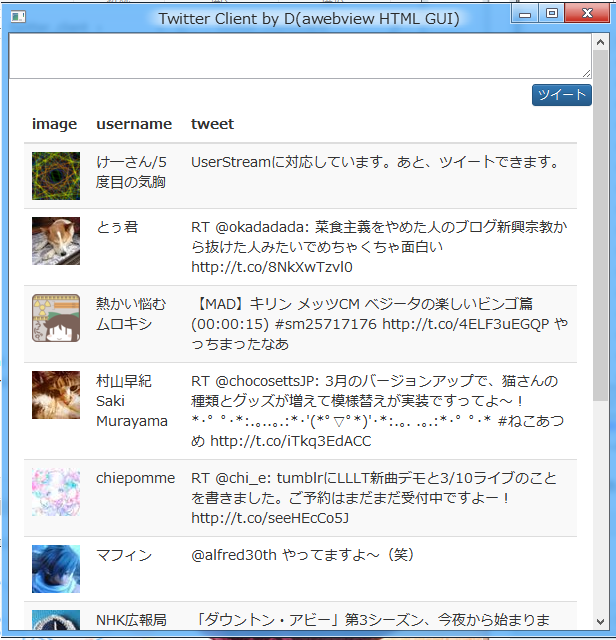
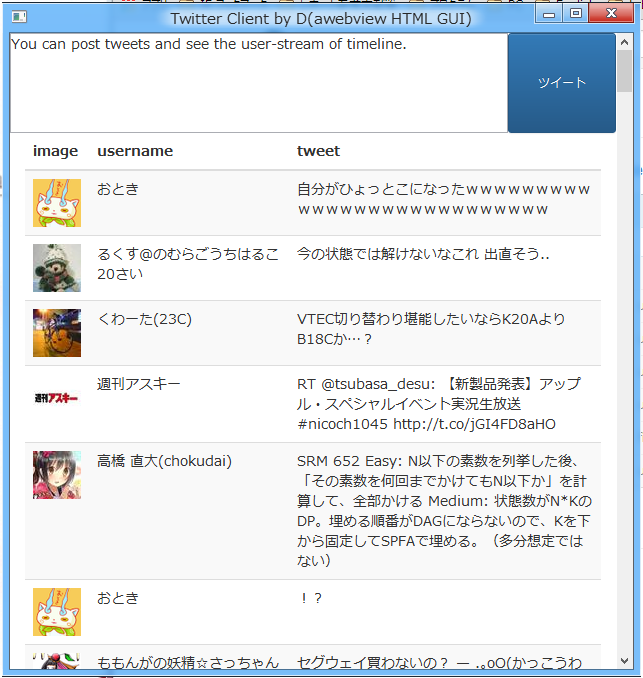
update example/twitter_client

Changed region(s): [[0.0, 0.0, 1.0, 1.0]]

diff --git a/example/twitter_client/style.css b/example/twitter_client/style.css
@@ -2,12 +2,121 @@
 font-family:'ヒラギノ角ゴ Pro W3', 'Hiragino Kaku Gothic Pro', メイリオ, Meiryo, 'ＭＳ Ｐゴシック', sans-serif;
 }
 
-#iptTweetText {
+* { margin: 0; padding: 0; }
+
+html {
     width: 100%;
+    height: 100%;
+}
+
+
+body {
+    width: 100%;
+    height: 100%;
+    margin: 0 auto;
+    vertical-align: top;
+}
+
+
+#div_TweetArea {
+    display: table;
+    width: 100%;
+    height: 100;
+    text-align: right;
+}
+
+#div_iptTweetText, #div_btnTweet {
+    display: table-cell;
+}
+
+
+#div_TweetArea { }
+
+
+#div_iptTweetText {
+    height: 100px;
+    vertical-align: top;
+}
+
+#iptTweetText {
+    height: 100px;
+    width: 100%;
+    resize: none;
+    vertical-align: top;
+}
+
+#div_btnTweet {
+    height: 100px;
+    width: 100px;
 }
 
 #btnTweet {
-    position: relative;
+    height: 100px;
+    width: 100%;
+}
+
+#div_tweetTable {
+    width: 100%;
+}
+
+#tweetTable {
+    width: 100%;
+}
+
+
+/*
+html, body {
+    width: 100%;
+    height: 100%;
+}
+
+#div_TweetArea {
+    width: 100%;
+    height: 100px;
+}
+
+
+#div_iptTweetText {
+    margin-right: 80px;
+}
+
+#iptTweetText {
+    float: left;
+    width: 100%;
+    height: 100px;
+    resize: none;
+}
+
+#div_btnTweet {
     float: right;
+}
+
+#btnTweet {
+    width: 80px;
+    height: 100px;
     z-index: 2;
+}
+
+#div_tweetTable {
+    clear: both;
+    overflow: scroll;
+    width: 100%;
+    margin-bottom:px;
+}
+
+#tweetTable {
+    height: 100%;
+}
+*/
+
+#tweetTable tr {
+    width: 100%;
+}
+
+#tweetTable tr > th:nth-child(1){
+    width: 60px;
+}
+
+#tweetTable tr > th:nth-child(2){
+    width: 200px;
 }

diff --git a/example/twitter_client/views/main_page.html b/example/twitter_client/views/main_page.html
@@ -13,12 +13,19 @@
 </head>
 <body>
 
-<div>
-  %[elements["iptTweetText"].html%]<br>
-  %[elements["btnTweet"].html%]
+
+<div id="div_TweetArea">
+    <div id="div_iptTweetText">
+      %[elements["iptTweetText"].html%]
+    </div>
+    <div id="div_btnTweetArea">
+      %[elements["btnTweet"].html%]
+    </div>
 </div>
 
+<div id="div_tweetTable">
 %[elements["tweetTable"].html%]
+</div>
 
 <link href="jquery-ui/jquery-ui.css", rel="stylesheet">
 <script src="views/jquery-ui/external/jquery/jquery.js"></script>
